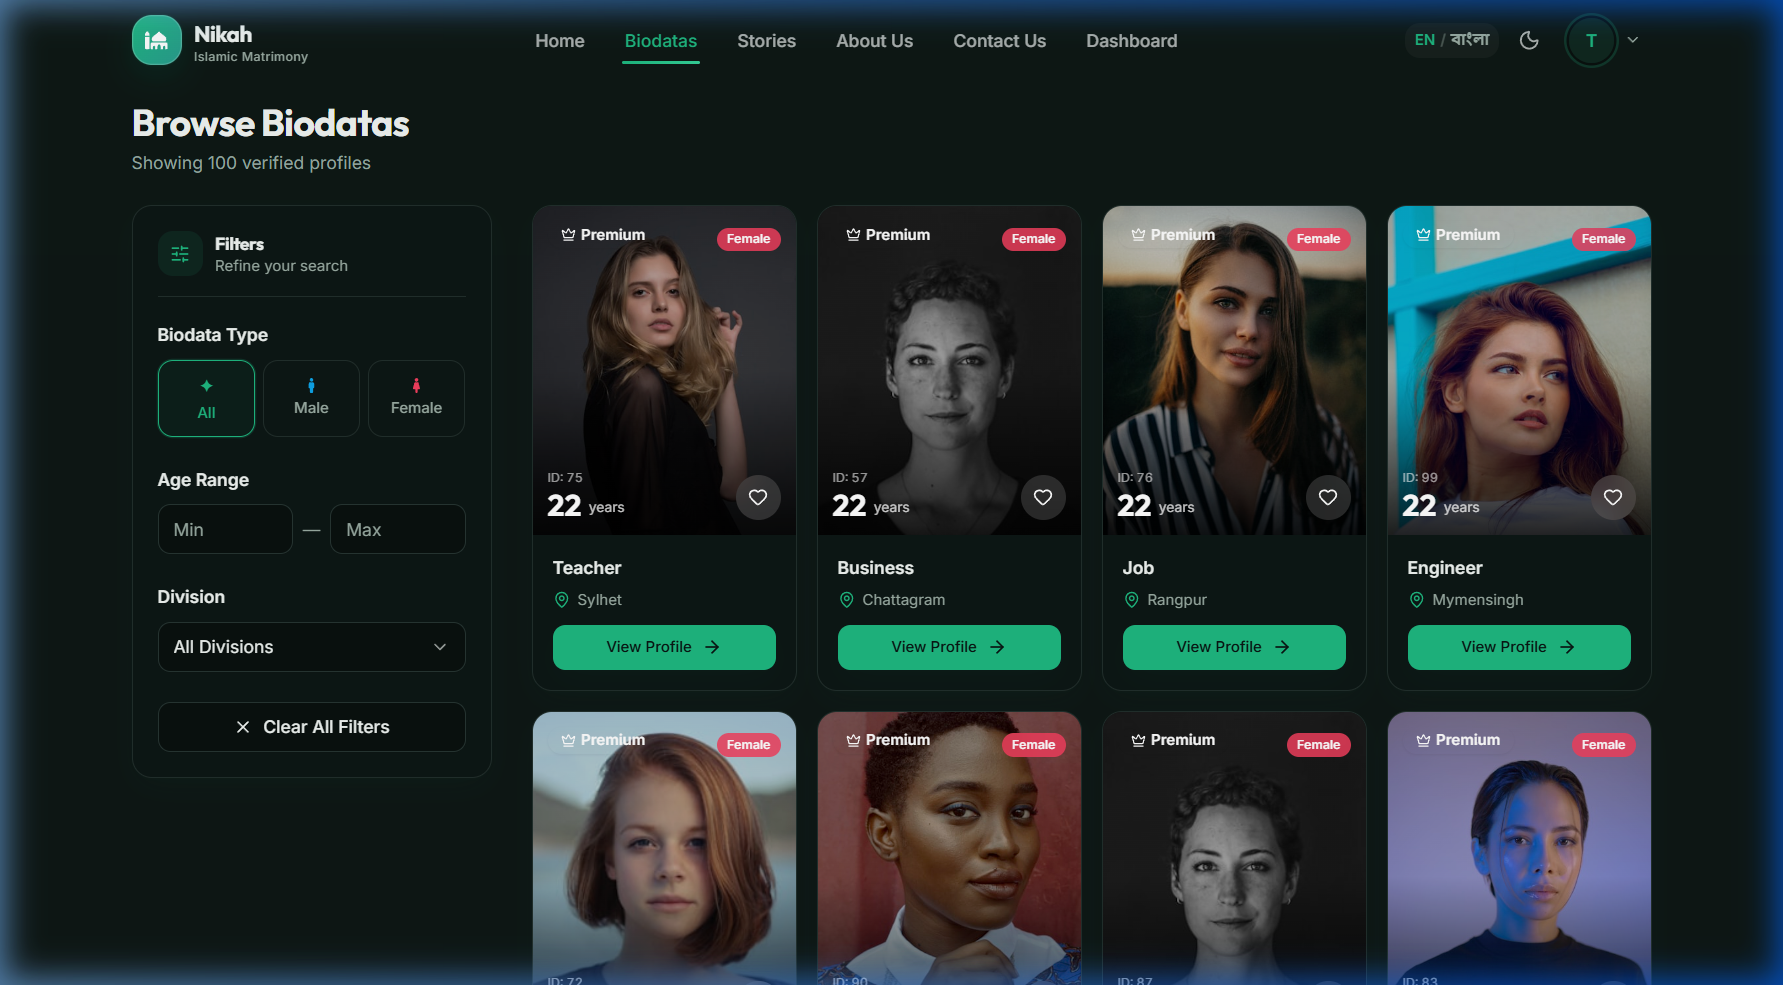
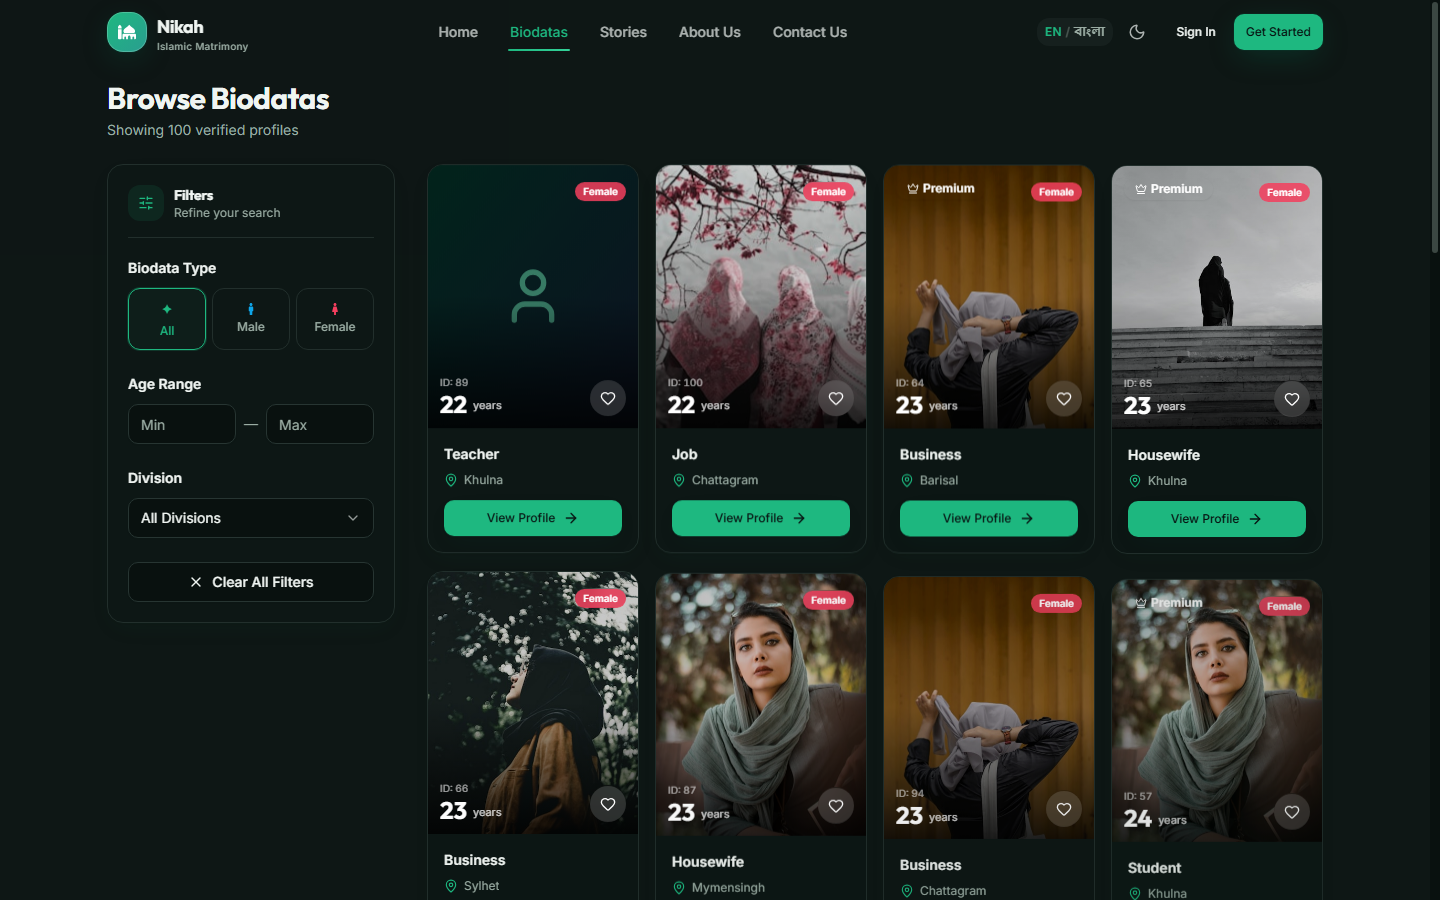
Update README with high-resolution screenshots of public UI, user dashboard, and admin management panel

diff --git a/README.md b/README.md
@@ -27,16 +27,41 @@
 
 ## 📸 Screenshots & Visual Tour
 
+### 🌐 User Experience & Public Features
+
 <div align="center">
 
-### 🏠 Home Page (Hero & Quick Search)
+#### 🏠 Home Page (Hero & Quick Search)
 ![Home Page](screenshots/home.png)
 
-### 📋 Verified Biodata Directory & Filters
-![Biodatas Page](screenshots/biodatas.png)
+#### 📋 Verified Biodata Directory & Filters
+![Biodatas Directory](screenshots/biodatas.png)
 
-### 💍 Real Success Stories
+#### 👤 Biodata Profile Details
+![Biodata Details](screenshots/biodata_details.png)
+
+#### 💳 Secure Checkout & Payment Processing
+![Checkout Page](screenshots/checkout.png)
+
+#### 💍 Real Success Stories
 ![Success Stories](screenshots/stories.png)
+
+</div>
+
+---
+
+### 👨💼 Admin Management Panel
+
+<div align="center">
+
+#### 📊 Admin Real-time Analytics & Dashboard Metrics
+![Admin Analytics](screenshots/admin_analytics.png)
+
+#### 👑 Approved Premium Members & Requests
+![Admin Premium](screenshots/admin_premium.png)
+
+#### 💳 Approved Contact Requests & Approvals
+![Admin Contact Requests](screenshots/admin_contacts.png)
 
 </div>
 
